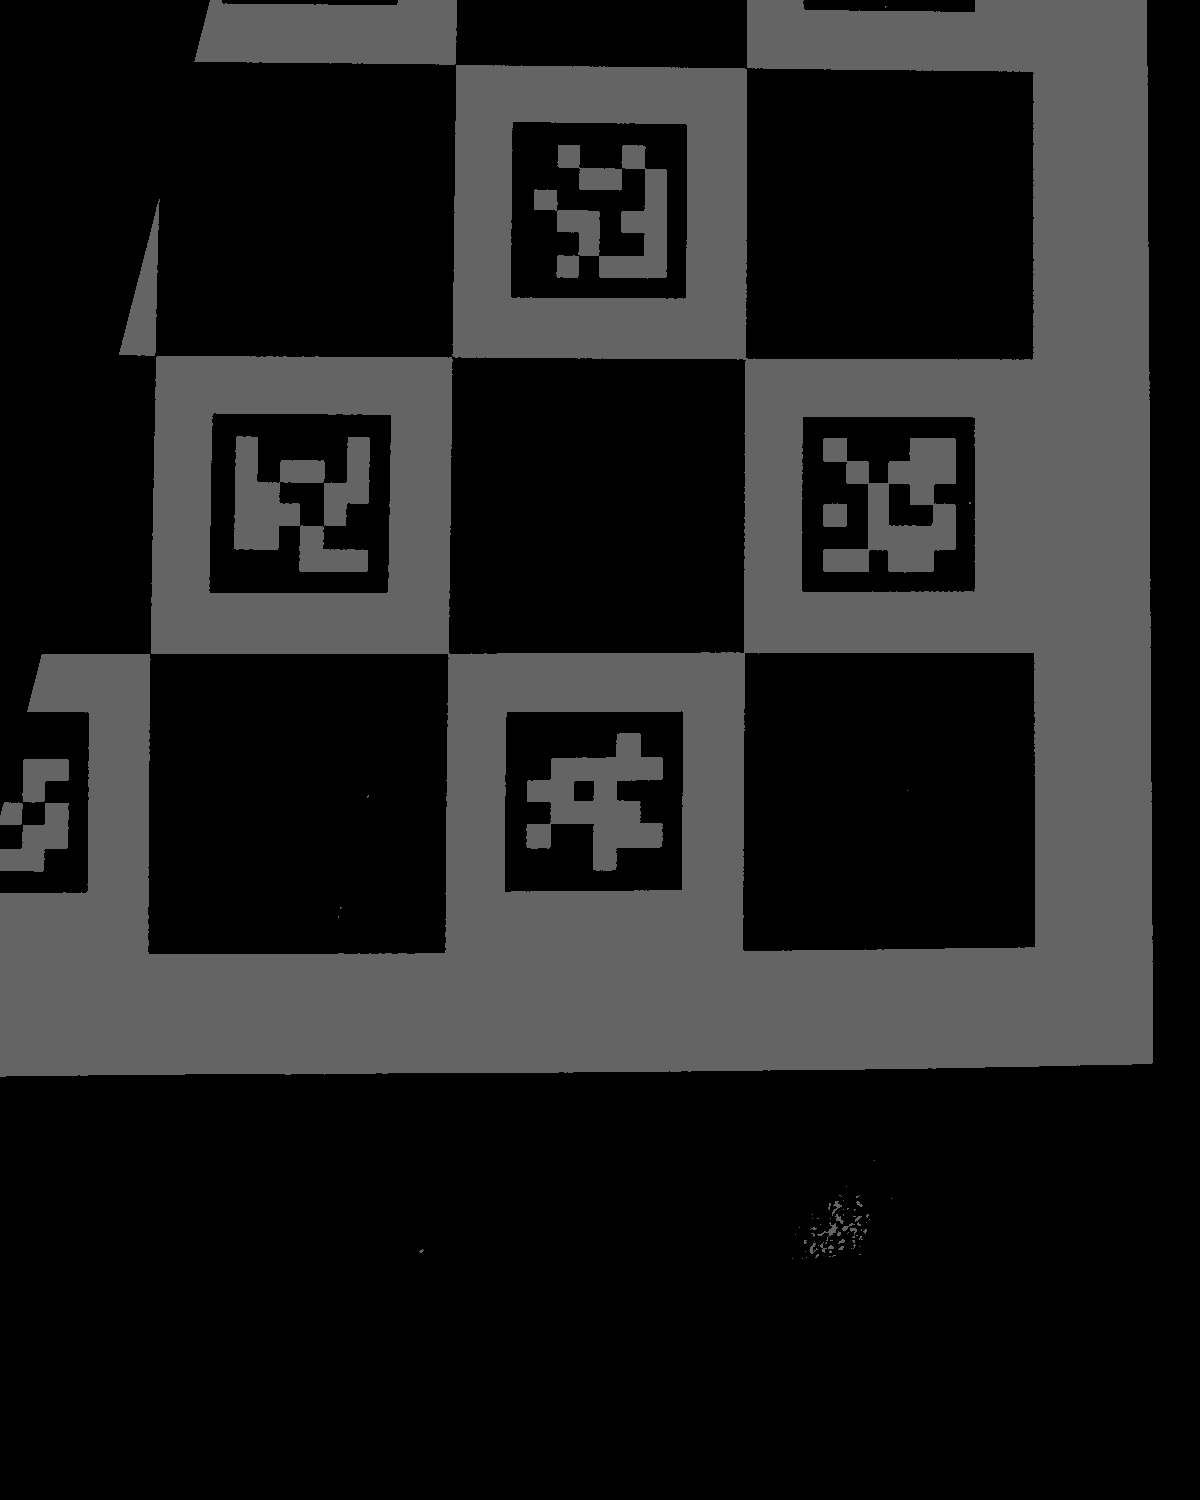
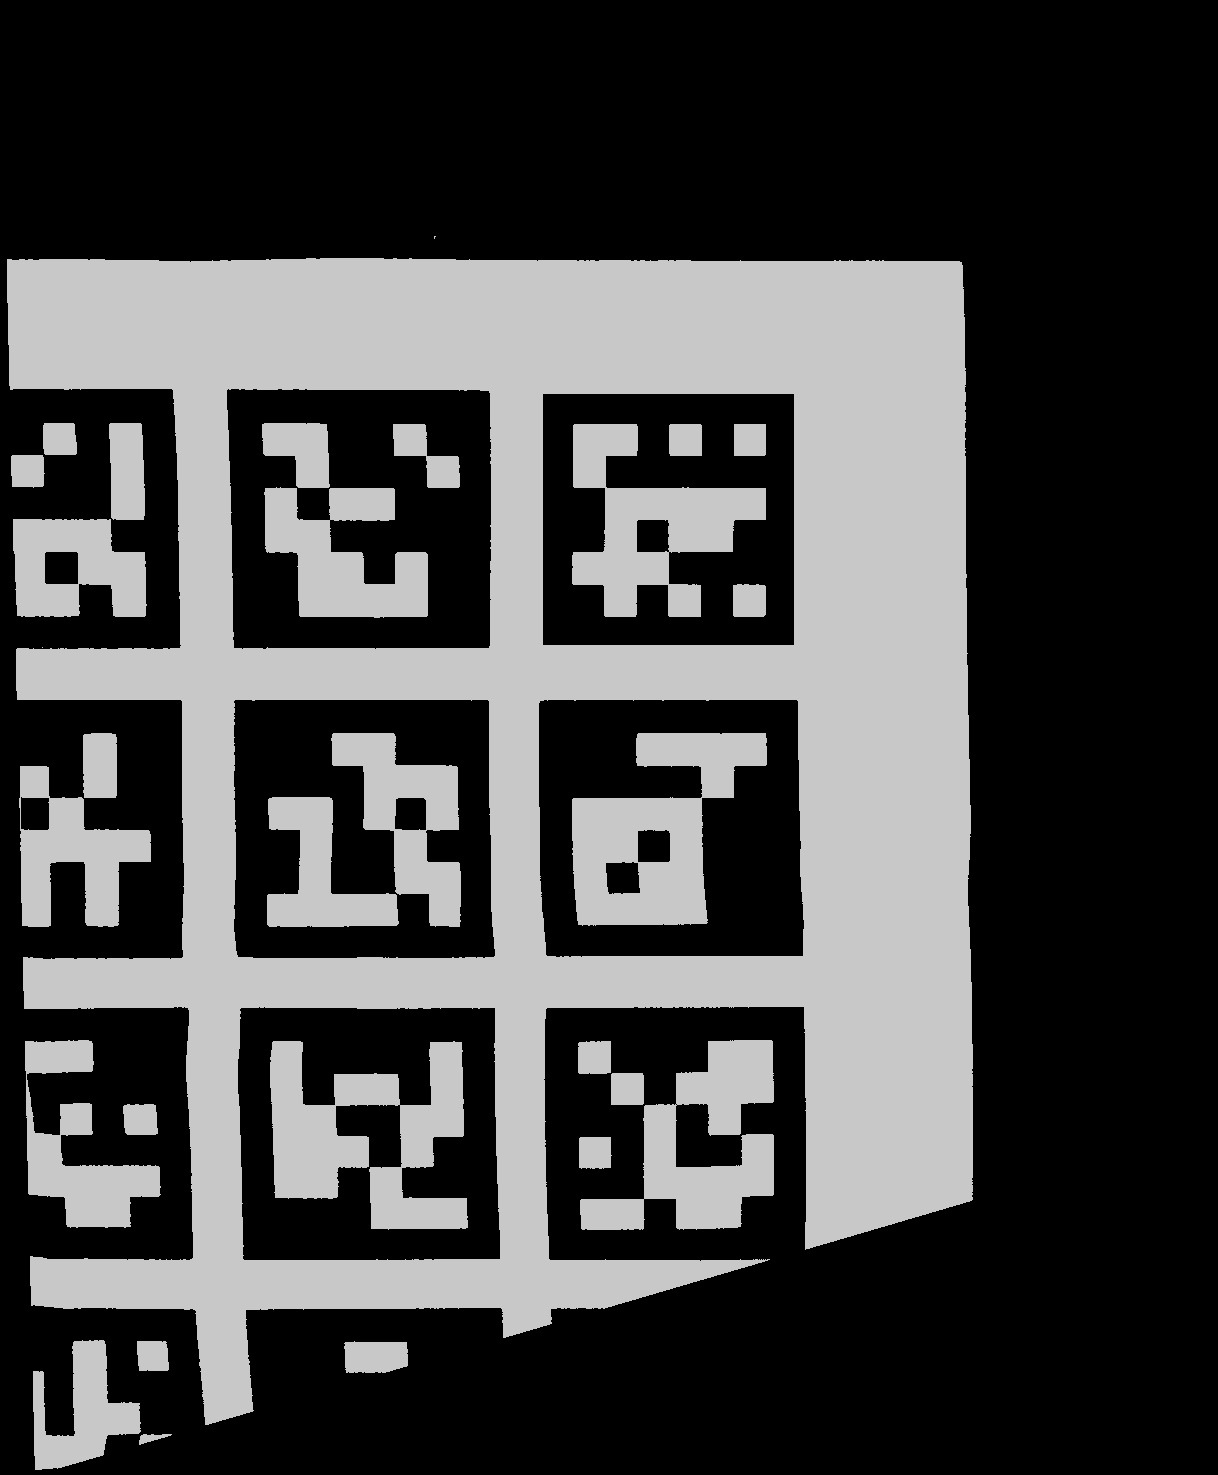
Stitch Update

diff --git a/software/testing/processing/svg_points.py b/software/testing/processing/svg_points.py
@@ -1,31 +1,67 @@
-from svgpathtools import svg2paths, Line, Arc, Path
+from svgpathtools import svg2paths
+import matplotlib.pyplot as plt
 
-def svg_to_points(svg_file, num_samples=100):
+def svg_to_points_segment(svg_file, num_samples=5):
     # Convert SVG file to paths
     paths, attributes = svg2paths(svg_file)
-    print(paths)
 
     # Extract data points from paths
-    data_points = []
+    x_coord = []
+    y_coord = []
+    count = 0 
     for path in paths:
         for segment in path:
-            if isinstance(segment, Path):
-                points = segment.sample(num_samples)
-                for point in points:
-                    data_points.append([point.real, point.imag])
-            elif isinstance(segment, Line):
-                length = segment.length()
-                num_segments = int(length)  # Number of line segments to approximate the arc
-                t_values = [i / num_segments for i in range(num_segments + 1)]
-                for t in t_values:
-                    point = segment.point(t)
-                    data_points.append([point.real, point.imag])
+            x_coord = [[]]*len(path)
+            y_coord = [[]]*len(path)
+            length = segment.length()
+            num_segments = int(length)  # Number of line segments to approximate the line
+            t_values = [i / num_segments for i in range(num_segments + 1)]
+            for t in t_values:
+                point = segment.point(t)
+                x_coord[count].append(point.real)
+                y_coord[count].append(point.imag)
 
-    # Calculate size of SVG by drawing a bounding box around the SVG paths
-    print(data_points)
+    # Flip Y
+    max_y = []
+    for i in y_coord: 
+        max_y.append(max(i))
+    max_y = max(max_y)
 
-    return data_points
-    # x, y
+    for i in range(len(y_coord)): 
+        y_coord[i] = [(max_y - item) for item in y_coord[i]]
+
+    print(x_coord, y_coord)
+    
+    scat = plt.scatter(x_coord, y_coord)
+    plt.show()
+
+    return x_coord, y_coord
+
+def svg_to_points(svg_file, num_samples=5):
+    # Convert SVG file to paths
+    paths, attributes = svg2paths(svg_file)
+
+    # Extract data points from paths
+    x_coord = []
+    y_coord = []
+
+    for path in paths:
+        for segment in path:
+            length = segment.length()
+            num_segments = int(length)  # Number of line segments to approximate the line
+            t_values = [i / num_segments for i in range(num_segments + 1)]
+            for t in t_values:
+                point = segment.point(t)
+                x_coord.append(point.real)
+                y_coord.append(point.imag)
+
+        # Flip Y
+        y_coord = [(max(y_coord) - item) for item in y_coord]
+    
+    scat = plt.scatter(x_coord, y_coord)
+    plt.show()
+
+    return x_coord, y_coord
 
 if __name__ == '__main__': 
-    svg_to_points("test.svg")
+    svg_to_points_segment("./software/testing/processing/test2.svg")

diff --git a/software/testing/CV/stitch/stitched_gen.py b/software/testing/CV/stitch/stitched_gen.py
@@ -48,20 +48,29 @@ def four_point_transform(image, corners):
     heightB = np.sqrt(((tl[0] - bl[0]) ** 2) + ((tl[1] - bl[1]) ** 2))
     maxHeight = max(int(heightA), int(heightB))
 
-    marker_px = max(maxWidth, maxHeight)
+    marker_px = min(maxWidth, maxHeight)
     
     dst = np.array([
         [tl[0], tl[1]],
         [tl[0] + marker_px, tl[1]],
-        [tl[0] +  marker_px, tl[1] + marker_px],
+        [tl[0] + marker_px, tl[1] + marker_px],
         [tl[0], tl[1] + marker_px]], dtype = "float32")
 
     # compute the perspective transform matrix and then apply it
     M = cv2.getPerspectiveTransform(corners[0], dst) # use first marker to obtain transform
-    warped = cv2.warpPerspective(image, M, (image.shape[0], image.shape[1]))
+    warped = cv2.warpPerspective(image, M, (image.shape[0]*2, image.shape[1]*2))
 
+   #  frame = cv2.rectangle(warped, (tl[0], tl[1]), ((tl[0] +  marker_px), (tl[1] + marker_px)), (255, 0, 0), 1)
+
+    frame = cv2.rectangle(warped, (int(tl[0]), int(tl[1])), (int(tl[0] +  marker_px), int(tl[1] + marker_px)), (125, 125, 125), 5)
+    
+    th = 1 # threshold for black edges
+    y_nonzero, x_nonzero, _ = np.nonzero(frame>th)
+    cropped = frame[np.min(y_nonzero):np.max(y_nonzero), np.min(x_nonzero):np.max(x_nonzero)]
+
+    # frame = cv2.polylines(warped, [dst], True, (0,255,255))
     # return the warped image
-    return warped
+    return cropped
 
 def marker_transform(frame, aruco_dict_type):
 
@@ -84,7 +93,7 @@ def main():
 
     # cap = cv2.VideoCapture(0)
     # time.sleep(1.0)
-    
+    # Capture 6 images, an image per 2 seconds
     # for i in range(1, 7): 
     #     time.sleep(0.5)
     #     ret, frame = cap.read()
@@ -104,7 +113,7 @@ def main():
     #     cv2.destroyAllWindows()
     
     files = os.listdir("./raw/")
-    print(files)
+    # print(files)
 
     i = 0 
     for file in files: 
@@ -114,10 +123,10 @@ def main():
         output = marker_transform(frame_cropped, aruco_dict_type)
 
         gray = cv2.cvtColor(output, cv2.COLOR_BGR2GRAY) # more processing can be done to the images
+        denoise = cv2.fastNlMeansDenoising(gray)
+        ret, image = cv2.threshold(denoise, 10, maxval=200, type=cv2.THRESH_OTSU)
 
-        ret, image = cv2.threshold(gray, 170, 100, cv2.THRESH_OTSU)
-
-        # image = cv2.adaptiveThreshold(gray, 130, cv2.ADAPTIVE_THRESH_MEAN_C, cv2.THRESH_BINARY, 11, 2)
+        # image = cv2.adaptiveThreshold(gray, 130, cv2.ADAPTIVE_THRESH_MEAN_C, cv2.THRESH_OTSU, 11, 2)
 
         cv2.imwrite("./captured/" + str(i) + ".jpg", image)
 

diff --git a/software/testing/processing/points_in_contour.py b/software/testing/processing/points_in_contour.py
@@ -1,0 +1,76 @@
+import matplotlib.pyplot as plt
+import matplotlib.patches as patches
+from matplotlib.collections import PatchCollection
+
+def point_in_polygon(point, polygon):
+    """
+    Check if a point is inside a polygon.
+    Implemented using the ray casting algorithm.
+    """
+    x, y = point
+    n = len(polygon)
+    inside = False
+    p1x, p1y = polygon[0]
+    for i in range(n + 1):
+        p2x, p2y = polygon[i % n]
+        if y > min(p1y, p2y):
+            if y <= max(p1y, p2y):
+                if x <= max(p1x, p2x):
+                    if p1y != p2y:
+                        xinters = (y - p1y) * (p2x - p1x) / (p2y - p1y) + p1x
+                    if p1x == p2x or x <= xinters:
+                        inside = not inside
+        p1x, p1y = p2x, p2y
+    return inside
+
+def distinguish_contours(points, cell_size):
+    """
+    Distinguish areas formed by contours in a set of points.
+    """
+    # Find boundaries
+    min_x = min(point[0] for point in points)
+    max_x = max(point[0] for point in points)
+    min_y = min(point[1] for point in points)
+    max_y = max(point[1] for point in points)
+
+    # Create grid
+    cells = []
+    for x in range(int(min_x), int(max_x) + 1, cell_size):
+        for y in range(int(min_y), int(max_y) + 1, cell_size):
+            cells.append([(x, y), (x + cell_size, y), (x + cell_size, y + cell_size), (x, y + cell_size)])
+
+    # Check each cell against the contours
+    labeled_cells = {}
+    for cell in cells:
+        for contour in contours:
+            if point_in_polygon(cell[0], contour):
+                labeled_cells[tuple(cell[0])] = True
+                break
+        else:
+            labeled_cells[tuple(cell[0])] = False
+
+    return labeled_cells
+
+# Sample points (replace this with your own points)
+points = [(1, 1), (1, 2), (2, 2), (2, 1), (3, 1), (3, 2), (4, 2), (4, 1), (2.5, 1.5)]
+contours = [[(1, 1), (1, 2), (2, 2), (2, 1)], [(3, 1), (3, 2), (4, 2), (4, 1)]]
+cell_size = 1  # Modify the cell_size to be an integer
+
+# Distinguish contours
+labeled_cells = distinguish_contours(points, cell_size)
+
+# Prepare patches for visualization
+patches = []
+for cell, is_contour in labeled_cells.items():
+    patches.append(patches.Rectangle(cell, cell_size, cell_size, fill=is_contour))
+
+# Create plot
+fig, ax = plt.subplots()
+collection = PatchCollection(patches)
+ax.add_collection(collection
+
+# Set limits and aspect ratio
+ax.set_aspect('equal')
+
+# Show plot
+plt.show()

diff --git a/software/testing/CV/stitch/stitcher_detailed.py b/software/testing/CV/stitch/stitcher_detailed.py
@@ -1,6 +1,6 @@
 # Source https://docs.opencv.org/4.x/d8/d19/tutorial_stitcher.html
 # Command py .\stitcher_detailed.py "1.jpg" "2.jpg" "3.jpg" "4.jpg" "5.jpg" "6.jpg" –work_megapix 0.6 –features orb –matcher homography –estimator homography –match_conf 0.3 –conf_thresh 1 –ba no –ba_refine_mask xxxxx –wave_correct horiz –warp plane –blend multiband –expos_comp channels_blocks –seam gc_colorgrad
-# AFFINE Command py .\stitcher_detailed.py "1.jpg" "2.jpg" "3.jpg" "4.jpg" "5.jpg" "6.jpg" –work_megapix 0.6 –features surf –matcher affine –estimator affine –match_conf 0.3 –conf_thresh 0.3 –ba affine –ba_refine_mask xxxxx –wave_correct no –warp affine
+# AFFINE Command py .\stitcher_detailed.py "0.jpg" "1.jpg" "2.jpg" "3.jpg" "4.jpg" "5.jpg" "6.jpg" –work_megapix 0.6 –features surf –matcher affine –estimator affine –match_conf 0.3 –conf_thresh 0.3 –ba affine –ba_refine_mask xxxxx –wave_correct no –warp affine
 
 # AFFINE Command py .\stitcher_detailed.py "1.jpg" "2.jpg" "3.jpg" "4.jpg" "5.jpg" "6.jpg" –work_megapix 0.6 –features surf –matcher affine –estimator affine –match_conf 0.3 –conf_thresh 0.3 –ba affine –ba_refine_mask xxxxx –wave_correct no –warp plane
 """

diff --git a/software/testing/CV/stitch/captured/stitcher_detailed.py b/software/testing/CV/stitch/captured/stitcher_detailed.py
@@ -2,7 +2,7 @@
 # Command py .\stitcher_detailed.py "1.jpg" "2.jpg" "3.jpg" "4.jpg" "5.jpg" "6.jpg" –work_megapix 0.6 –features orb –matcher homography –estimator homography –match_conf 0.3 –conf_thresh 1 –ba no –ba_refine_mask xxxxx –wave_correct horiz –warp plane –blend multiband –expos_comp channels_blocks –seam gc_colorgrad
 # AFFINE Command py .\stitcher_detailed.py "1.jpg" "2.jpg" "3.jpg" "4.jpg" "5.jpg" "6.jpg" –work_megapix 0.6 –features surf –matcher affine –estimator affine –match_conf 0.3 –conf_thresh 0.3 –ba affine –ba_refine_mask xxxxx –wave_correct no –warp affine
 
-# AFFINE Command py .\stitcher_detailed.py "1.jpg" "2.jpg" "3.jpg" "4.jpg" "5.jpg" –work_megapix 0.6 –features surf –matcher affine –estimator affine –match_conf 0.2 –conf_thresh 0.3 –ba affine –ba_refine_mask xxxxx –wave_correct no –warp plane
+# AFFINE Command py .\stitcher_detailed.py "0.jpg" "1.jpg" "2.jpg" "3.jpg" "4.jpg" "5.jpg" "6.jpg" "7.jpg" –work_megapix 0.6 –features surf –matcher affine –estimator affine –match_conf 0.2 –conf_thresh 0.3 –ba affine –ba_refine_mask xxxxx –wave_correct no –warp plane
 """
 Stitching sample (advanced)
 ===========================

diff --git a/software/development/processing/path.py b/software/development/processing/path.py
@@ -24,3 +24,5 @@
 # - shift points inward by radius of tool
 #   - find tangent based on path 
 #   - m[i] = (y[i+1] - y[i-1]) / (x[i+1] - x[i-1])     (https://stackoverflow.com/questions/2553015/tangent-of-a-parametric-discrete-curve)
+
+# https://en.wikipedia.org/wiki/Convex_hull_algorithms
